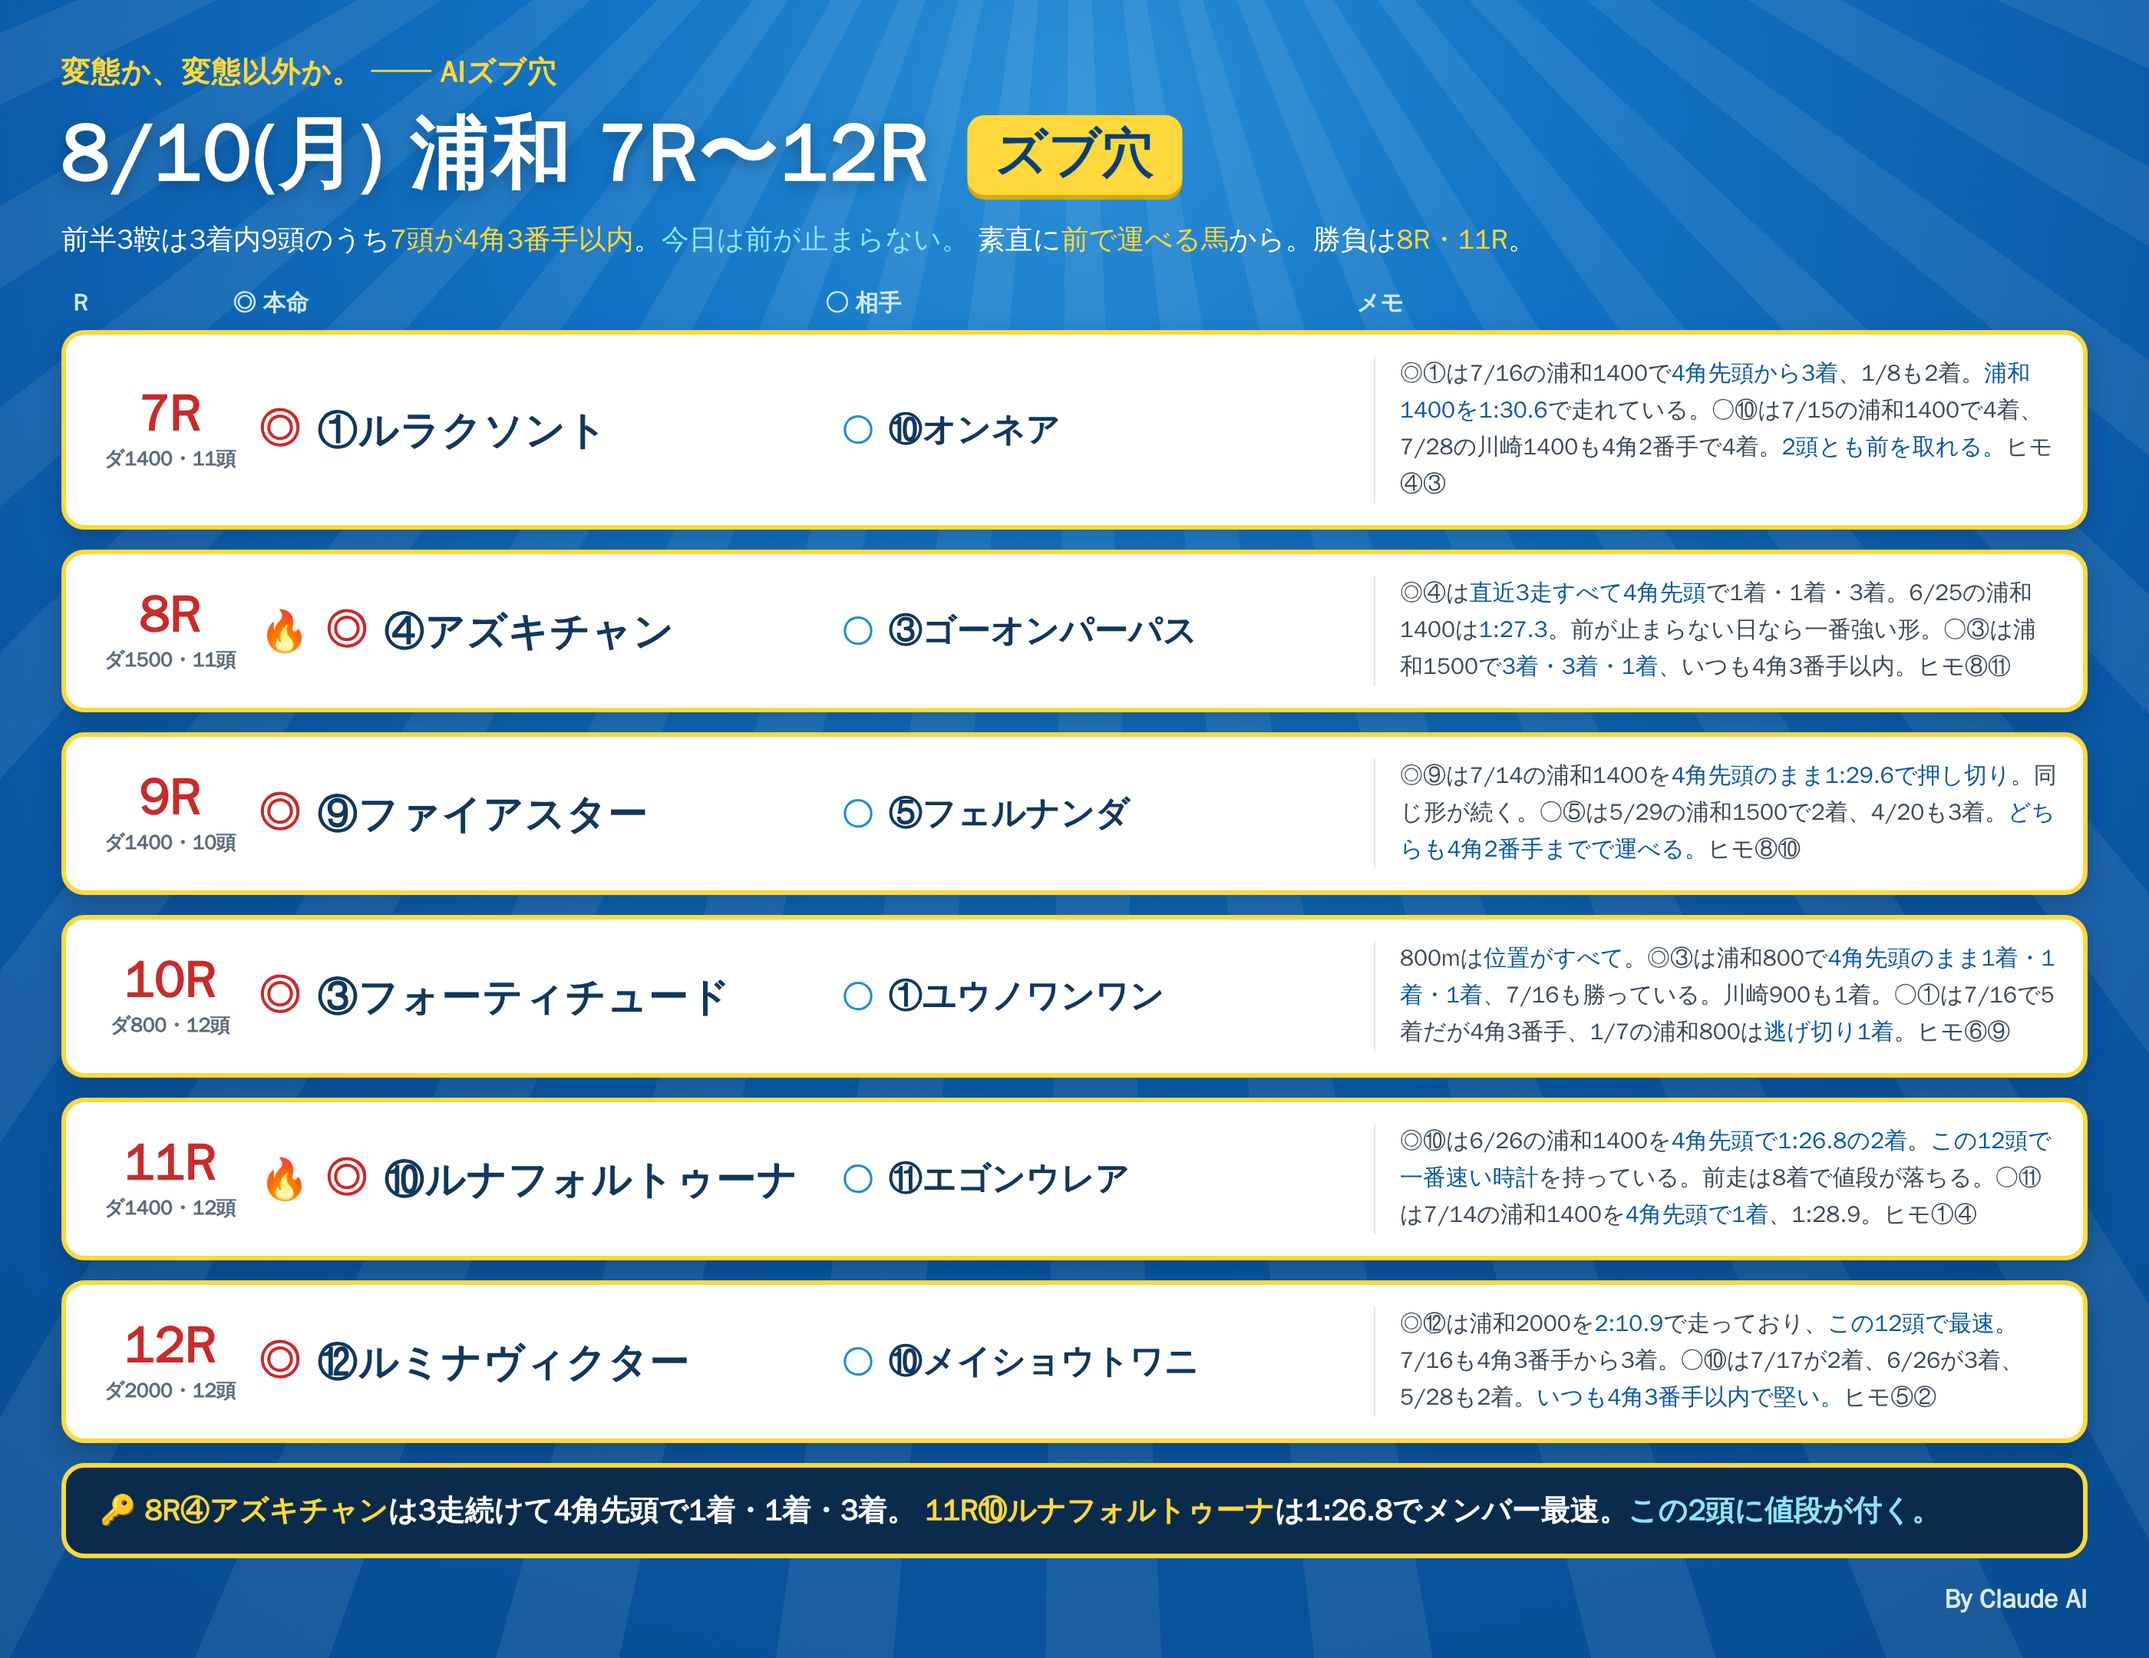
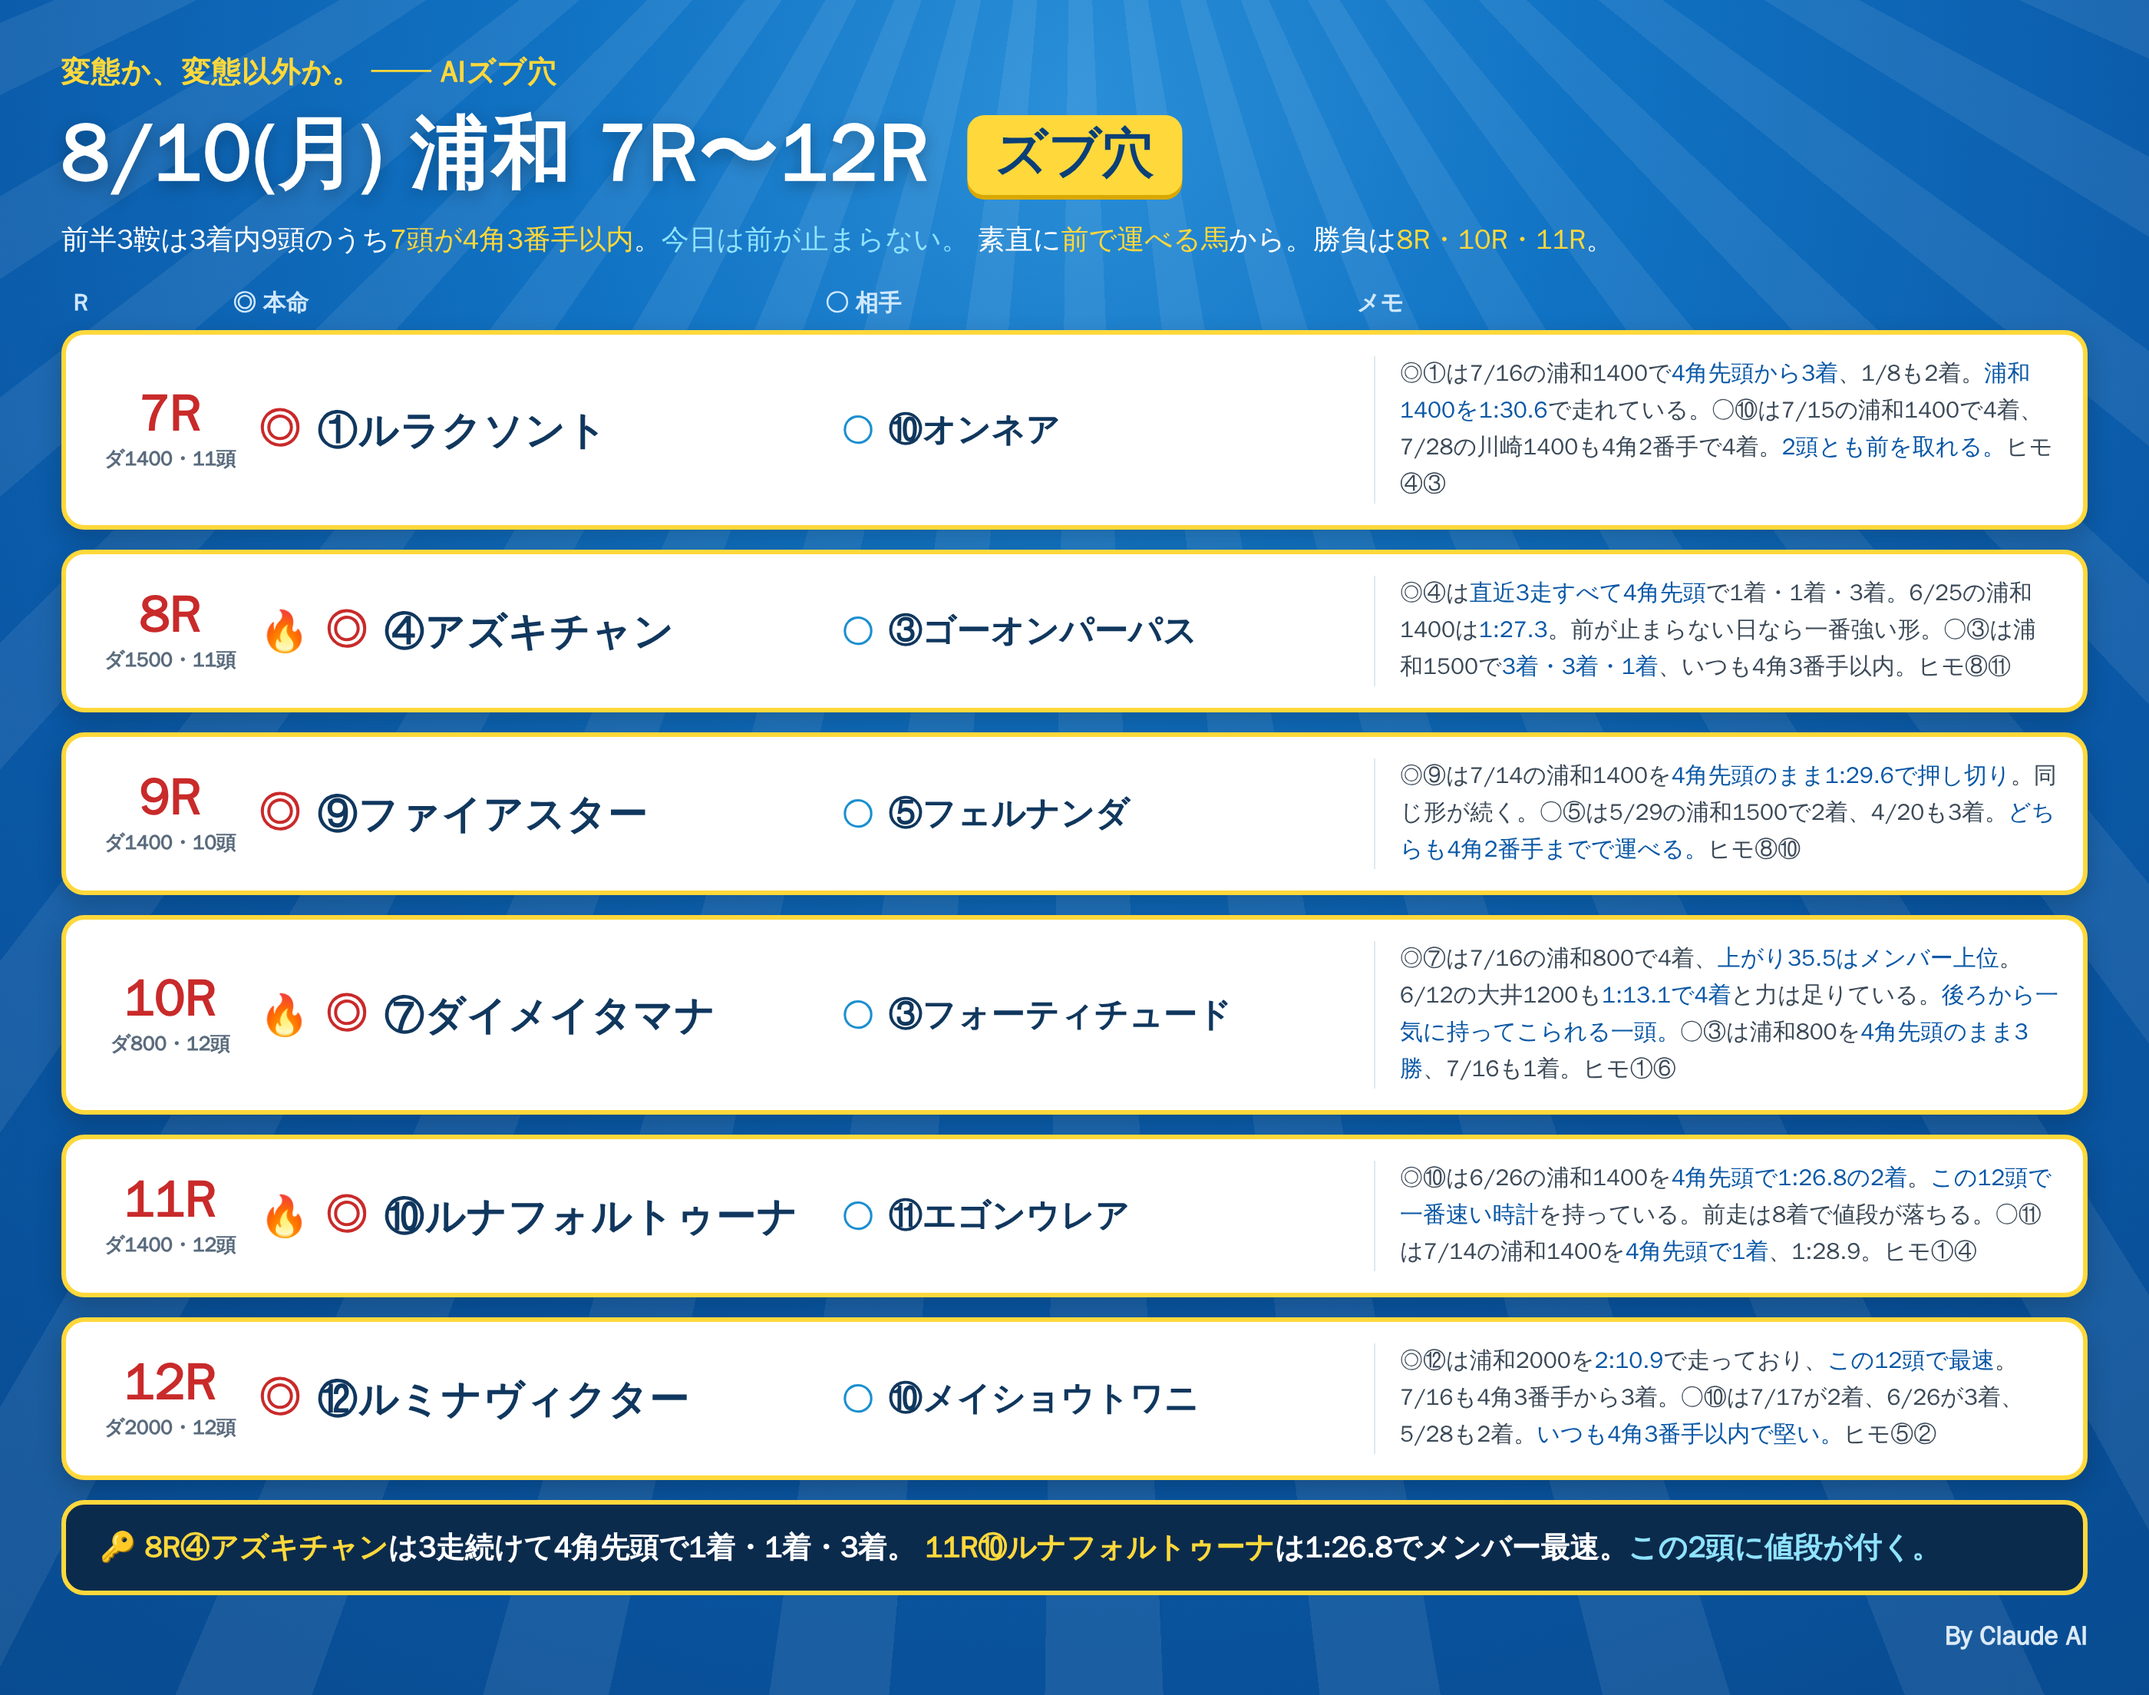
8/10 浦和 10Rの◎を⑦ダイメイタマナに変更
③フォーティチュードは○に下げ、ヒモを①⑥に。勝負レースに10Rを追加。

Claude-Session: https://claude.ai/code/session_01RoHscZkr96FNaxQWvUqgEw

diff --git a/notes/live/2026-08-10/urawa_7_12.html b/notes/live/2026-08-10/urawa_7_12.html
@@ -46,7 +46,7 @@
     <div class="bdg">ズブ穴</div>
   </div>
   <div class="lead">前半3鞍は3着内9頭のうち<span class="y">7頭が4角3番手以内</span>。<span class="c">今日は前が止まらない。</span>
-  素直に<span class="y">前で運べる馬</span>から。勝負は<span class="y">8R・11R</span>。</div>
+  素直に<span class="y">前で運べる馬</span>から。勝負は<span class="y">8R・10R・11R</span>。</div>
   <div class="cols"><div class="cR">R</div><div class="cH">◎ 本命</div><div class="cA">○ 相手</div><div class="cM">メモ</div></div>
 
   <div class="row">
@@ -72,9 +72,9 @@
 
   <div class="row">
     <div class="rN"><div class="n">10R</div><div class="d">ダ800・12頭</div></div>
-    <div class="hm"><span class="mk">◎</span><span class="nm">③フォーティチュード</span></div>
-    <div class="at"><span class="mk2">○</span><span class="nm2">①ユウノワンワン</span></div>
-    <div class="memo">800mは<b>位置がすべて</b>。◎③は浦和800で<b>4角先頭のまま1着・1着・1着</b>、7/16も勝っている。川崎900も1着。○①は7/16で5着だが4角3番手、1/7の浦和800は<b>逃げ切り1着</b>。ヒモ⑥⑨</div>
+    <div class="hm"><span class="fire">🔥</span><span class="mk">◎</span><span class="nm">⑦ダイメイタマナ</span></div>
+    <div class="at"><span class="mk2">○</span><span class="nm2">③フォーティチュード</span></div>
+    <div class="memo">◎⑦は7/16の浦和800で4着、<b>上がり35.5はメンバー上位</b>。6/12の大井1200も<b>1:13.1で4着</b>と力は足りている。<b>後ろから一気に持ってこられる一頭。</b>○③は浦和800を<b>4角先頭のまま3勝</b>、7/16も1着。ヒモ①⑥</div>
   </div>
 
   <div class="row">
